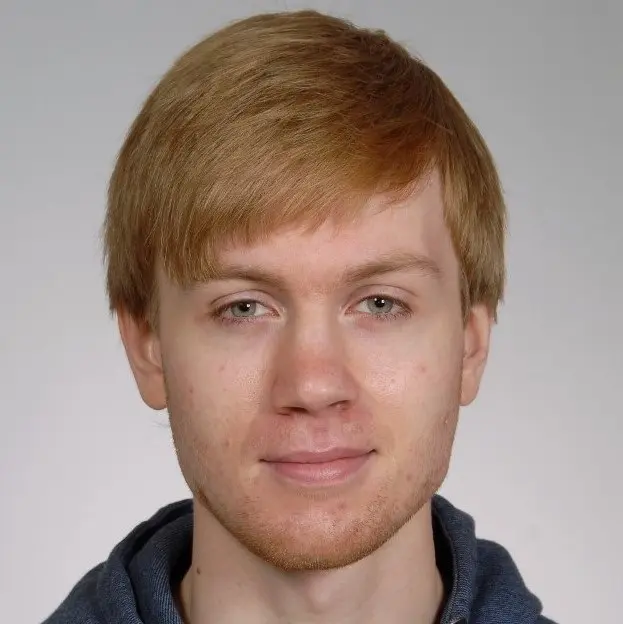
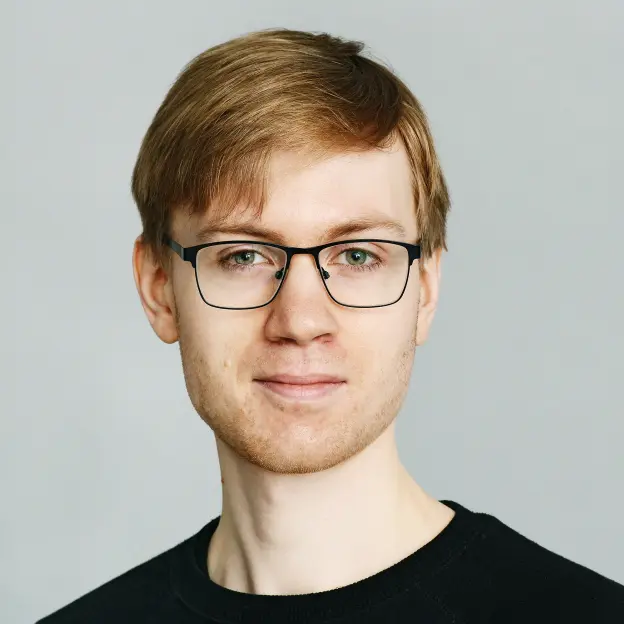
Update profile info

diff --git a/index.html b/index.html
@@ -41,30 +41,34 @@
         <!-- can be centered vertically if needed -->
         <img
           class="img-profile rounded-circle"
-          src="img/profile/200.webp"
+          src="img/profile/624.webp"
           alt="Profile photo"
         />
 
-        <h1 class="title-style">Jan Horešovský</h1>
+        <h2 class="title-style">Jan Horešovský</h2>
 
         <p class=""><i>Software Developer</i></p>
 
-        <p>
-          I'm currently completing my Master's degree in Computer Science at
+        <!-- <p>
+          I currently work as a software developer at
+          <a href="https://www.reaktor.com/">Reaktor</a>. I'm currently
+          completing my Master's degree in Computer Science at
           <a href="https://www.aalto.fi/en/">Aalto University</a>, Finland. I
-          have obtained my Bachelor's degree from
+          obtained my Bachelor's degree from
           <a href="https://www.mff.cuni.cz/en">Charles University</a>, Czechia,
           spent exchange semesters at
           <a href="https://www.epfl.ch/en/">EPFL</a>, Switzerland and
-          <a href="https://www.dur.ac.uk/">Durham University</a>, UK. I have
-          worked as a Software Design Engineer Intern at
-          <a href="https://www.concur.com/">SAP Concur</a>.
-        </p>
+          <a href="https://www.dur.ac.uk/">Durham University</a>, UK.
+        </p> -->
 
         <p class="nospace">
+          <i class="far fa-building logo-style"></i>
+          <a href="https://www.reaktor.com/" class="">Reaktor</a>
+        </p>
+        <p class="nospace">
           <i class="fas fa-map-marker-alt logo-style"></i>
-          <a href="https://goo.gl/maps/4ZGcPfeuLRtjSPWy5" class="unstyled"
-            >Espoo, Finland</a
+          <a href="https://goo.gl/maps/bvJUQXJRMTak7jAx7" class=""
+            >Helsinki, Finland</a
           >
         </p>
         <p class="nospace logo-style">
@@ -72,17 +76,17 @@
         </p>
         <p class="nospace">
           <i class="fab fa-linkedin logo-style"></i>
-          <a href="https://www.linkedin.com/in/honzukka" class="mr-1 unstyled"
+          <a href="https://www.linkedin.com/in/honzukka" class="mr-1"
             >LinkedIn</a
           >
         </p>
         <p class="nospace">
-          <i class="fab fa-github logo-style"></i
-          ><a href="https://github.com/honzukka" class="unstyled"> GitHub</a>
+          <i class="fab fa-github logo-style"></i>
+          <a href="https://github.com/honzukka" class="">GitHub</a>
         </p>
 
         <p class="mt-3">
-          <a
+          <!-- <a
             href="pdfs/cv.pdf"
             class="btn btn-outline-light text-light unstyled m-1"
             role="button"
@@ -93,7 +97,7 @@
             class="btn btn-outline-light text-light unstyled m-1"
             role="button"
             >Inspiration</a
-          >
+          > -->
           <span class="project-pointer">
             <a
               href="#projects"

diff --git a/css/portfolio.css b/css/portfolio.css
@@ -1,56 +1,56 @@
 :root {
-    --sidebar-width: 25rem;
+  --sidebar-width: 25rem;
 }
 
 @media (min-width: 992px) and (min-height: 650px) {
-    body {
-        padding-left: var(--sidebar-width);
-    }
+  body {
+    padding-left: var(--sidebar-width);
+  }
 
-    .side-bio {
-        text-align: left;
-        position: fixed;
-        top: 0;
-        left: 0;
-        display: flex;
-        flex-direction: column;
-        width: var(--sidebar-width);
-        height: 100vh;
-    }
+  .side-bio {
+    text-align: left;
+    position: fixed;
+    top: 0;
+    left: 0;
+    display: flex;
+    flex-direction: column;
+    width: var(--sidebar-width);
+    height: 100vh;
+  }
 
-    .project-pointer {
-        visibility: hidden;
-    }
+  .project-pointer {
+    visibility: hidden;
+  }
 }
 
 .img-profile {
-    max-width: 7rem;
+  max-width: 15rem;
 }
 
 .item-thumbnail {
-    max-width: 15rem;
-    padding: 0.2rem;
-    width: 100%;
+  max-width: 15rem;
+  padding: 0.2rem;
+  width: 100%;
 }
 
 /* --------------------- */
 @media (min-width: 1400px) {
-    .item-style {
-        max-width: 50vw;
-    }
+  .item-style {
+    max-width: 50vw;
+  }
 }
-  
+
 @media (min-width: 800px) {
-    .item-style {
-        margin-top: 3rem;
-        max-width: 75vw;
-    }
+  .item-style {
+    margin-top: 3rem;
+    max-width: 75vw;
+  }
 }
 
 @media (max-width: 799px) {
-    .item-style {
-        margin-top: 4rem;
-        max-width: 100vw;
-    }
+  .item-style {
+    margin-top: 4rem;
+    max-width: 100vw;
+  }
 }
 /* --------------------- */
